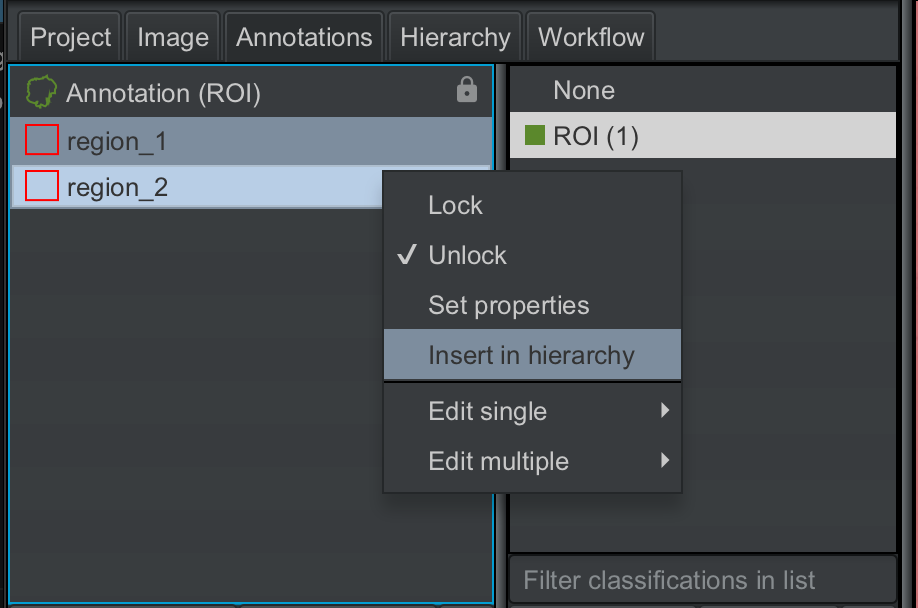
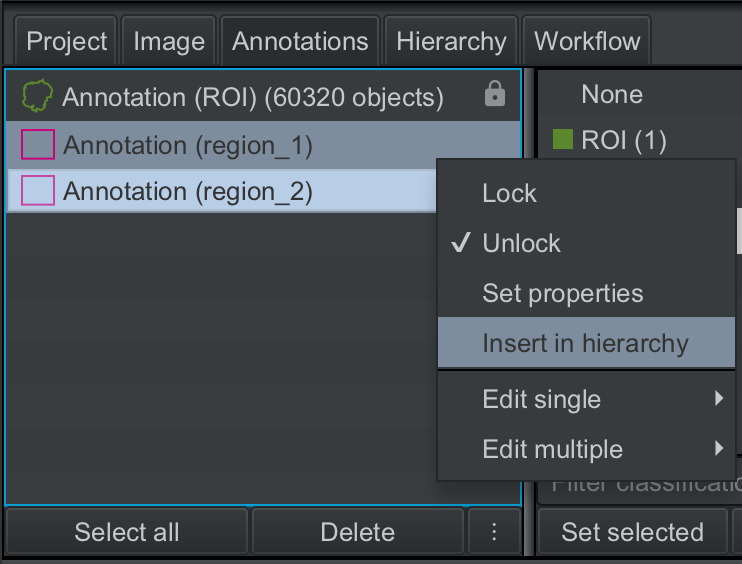
updated tutorial

diff --git a/docs/QuPath_demo/QuPath_demo.md b/docs/QuPath_demo/QuPath_demo.md
@@ -520,18 +520,16 @@ To achieve that, we will perform the following steps:
 
 <img src="TutorialImages/annotation_ROI_6.png" width="450" height="450" style="margin-left: 40px;">
 
-6. Name these annotations `region_1` and `region_2`, by selecting each annotation, right-clicking and the selecting `Annotations --> Set properties`. Feel free to use any name that you like. In your real analysis, this will be guided by your research question.
+6. Create two new annotation classes `region_1` and `region_2`, as detailed in 2.1.6.2, and set the classifications of the annotations that you made in step 5. Feel free to use any name that you like. In your real analysis, this will be guided by your research question.
 
 
-7.  Now, we need to let QuPath know that `region_1` and `region_2` belong to our first annotation `ROI`. This is called inserting objects into a hierarchy, where annotation objetc `ROI` will be the root or parent, and annotation objects `region_1` and `region_2` will be the children.
+7. Now, we need to let QuPath know that `region_1` and `region_2` belong to our first annotation `ROI`. This is called inserting objects into a hierarchy, where annotation objetc `ROI` will be the root or parent, and annotation objects `region_1` and `region_2` will be the children.
 To do this, select the thumbnails for `region_1` and `region_2` in the analysis pane (shift + down arrow keys), and then `Insert in hierarchy`
 
-<img src="TutorialImages/object_hierarchy_1.png" width="450" height="300" style="margin-left: 40px;">
+<img src="TutorialImages/object_hierarchy_1.png" width="350" height="300" style="margin-left: 40px;">
 
-The analysis pane will update to indicate that the root annotation object `ROI` has two chidren objects.
+<img src="TutorialImages/object_hierarchy_2.png" width="350" height="300" style="margin-left: 40px;">
 
-
-<img src="TutorialImages/object_hierarchy_2.png" width="200" height="250" style="margin-left: 40px;">
 
 8. Lock the annotations `region_1` and `region_2`
 
